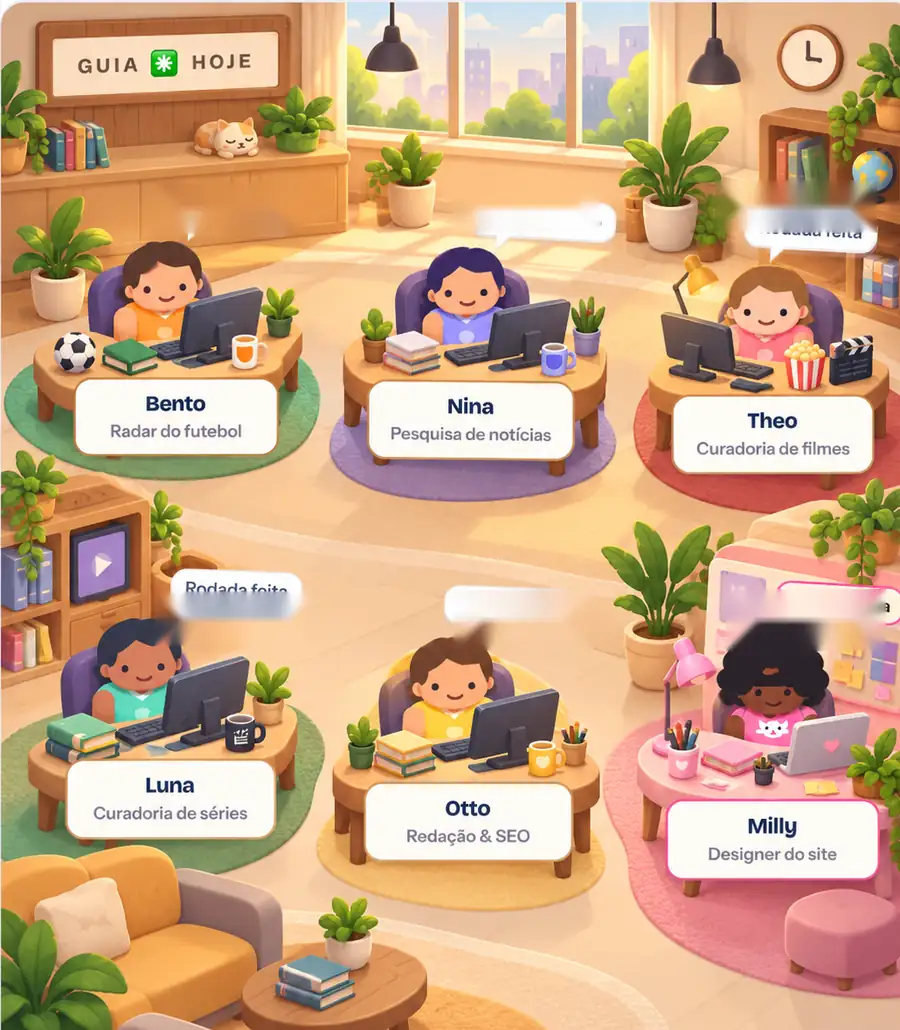
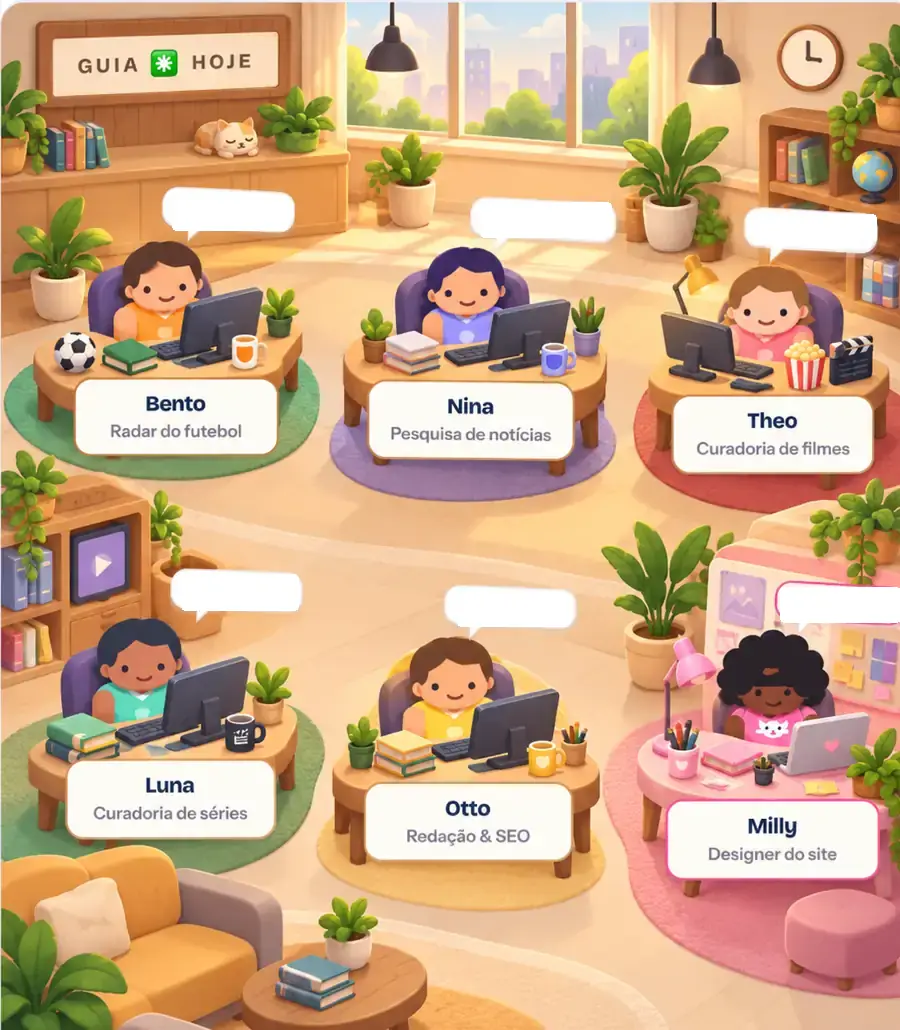
Ajusta arte original, remove textos fixos e alinha etiquetas reais

diff --git a/app/escritorio/escritorio.css b/app/escritorio/escritorio.css
@@ -1064,3 +1064,17 @@
  .office-scene .scene-floor{min-height:100%!important}
  .office-scene .station-nameplate{height:27%!important}
 }
+
+
+/* Ajuste fino da arte: placas alinhadas às mesas e balões sem texto impresso. */
+.office-scene .office-station:nth-child(-n+3),
+.office-scene .office-station:nth-child(-n+3):not(:hover){
+ height:28.5%!important
+}
+.office-scene .office-station:nth-child(n+4){
+ height:27.5%!important
+}
+.office-scene .office-station:nth-child(-n+3) .station-bubble{
+ top:10%!important
+}
+.office-scene .station-nameplate{ height:38%!important }
